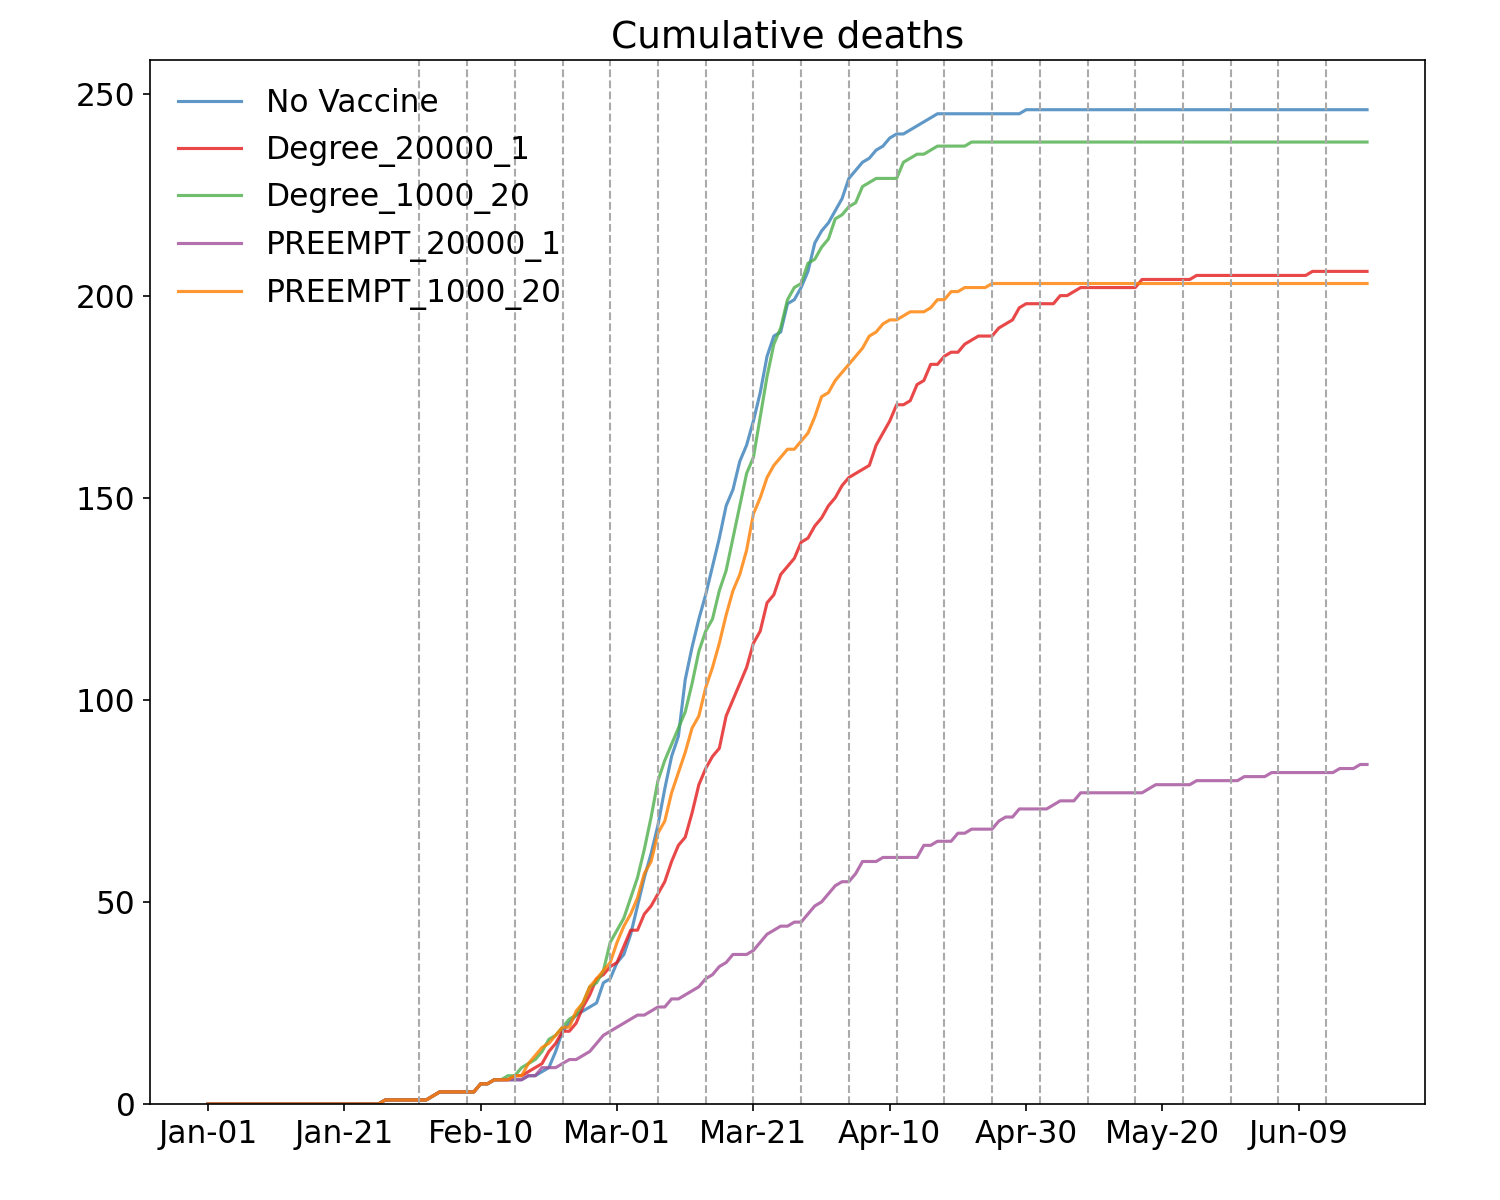
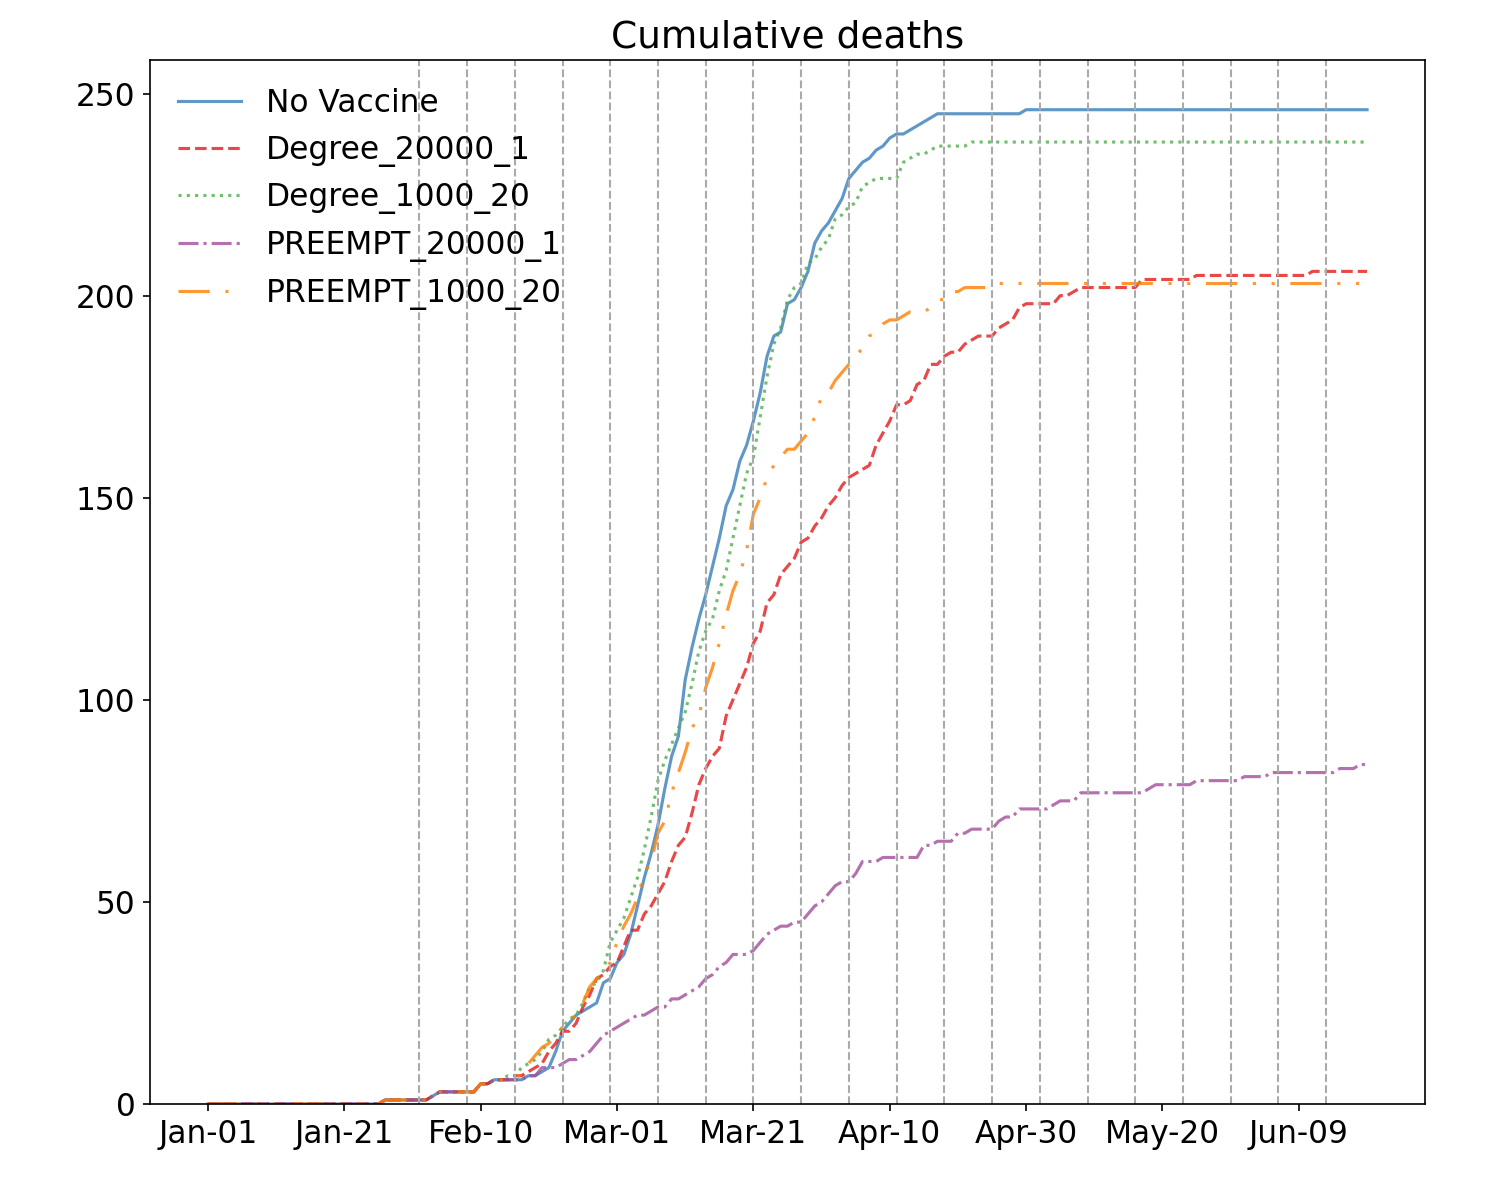
Linestyles included in the Simulation plots

diff --git a/FullFledgedExpts/Plots/Figure5/Plot.py b/FullFledgedExpts/Plots/Figure5/Plot.py
@@ -1,4 +1,8 @@
 import covasim as cv
+from cycler import cycler
+import matplotlib.pyplot as plt
+plt.rc('axes', prop_cycle= cycler(linestyle=['-', '--', ':', '-.', (0, (10, 5, 1, 5, 1, 5))]))
+plt.rc('lines', linewidth=8)
 
 simB = cv.load('Baseline.sim')
 sim1 = cv.load('Degree_20000_1.sim')

diff --git a/FullFledgedExpts/Plots/Hybrid/Plot.py b/FullFledgedExpts/Plots/Hybrid/Plot.py
@@ -1,4 +1,8 @@
 import covasim as cv
+from cycler import cycler
+import matplotlib.pyplot as plt
+plt.rc('axes', prop_cycle= cycler(linestyle=['-', '--', ':', '-.', (0, (10, 5, 1, 5, 1, 5))]))
+plt.rc('lines', linewidth=8)
 
 simB = cv.load('Baseline.sim')
 sim1 = cv.load('Degree_1000_20.sim')
